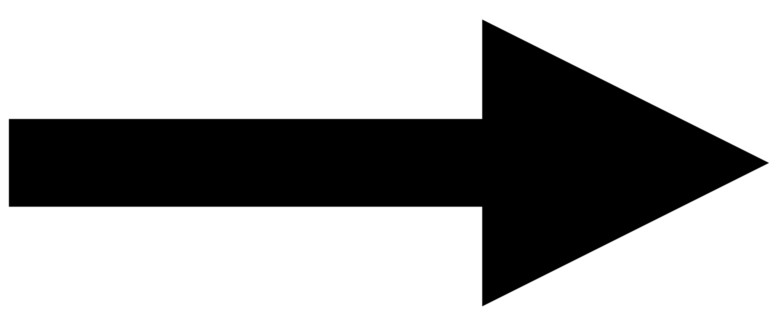
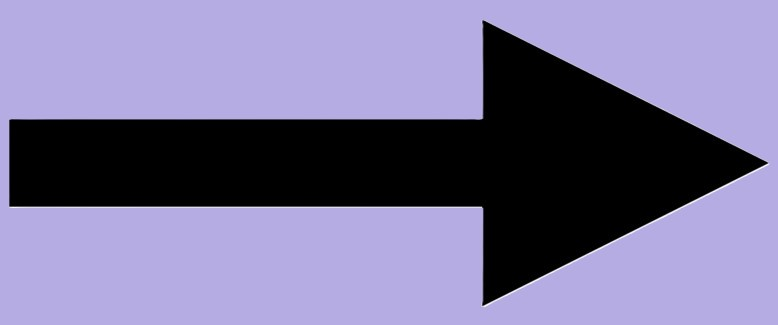
colour changes for text, navbar, buttons, etc - clearer colour contrast

diff --git a/Frontend/my-react-app/src/components/navbar/Navbar.css b/Frontend/my-react-app/src/components/navbar/Navbar.css
@@ -1,7 +1,7 @@
 nav {
     width: 100%;
     /* background: #f9f7dc; */
-    color: #d61c1c;
+    color: #B4ACE2;
     padding: 4px 0;
     position: fixed;
     top: 0;
@@ -24,6 +24,6 @@ nav ul li{
 }
 
 .show-nav{
-    background: #dbd3d1;
+    background: #040019;
     transition: 0.5s;
 }

diff --git a/Frontend/my-react-app/src/index.css b/Frontend/my-react-app/src/index.css
@@ -24,8 +24,8 @@ a{
 }
 
 .btn{
-    background: #ffffff;
-    color: #0e0d0d;
+    background: #B4ACE2;
+    color: #000000;
     padding: 14px 25px;
     font-size: 18px;
     border-radius: 30px;

diff --git a/Frontend/my-react-app/src/components/searchbar/Searchbar.css b/Frontend/my-react-app/src/components/searchbar/Searchbar.css
@@ -55,6 +55,10 @@ input {
     width: 94.8%;
 }
 
+.result p{
+    color: black;
+}
+
 #search-icon{
     color: royalblue;
 }
